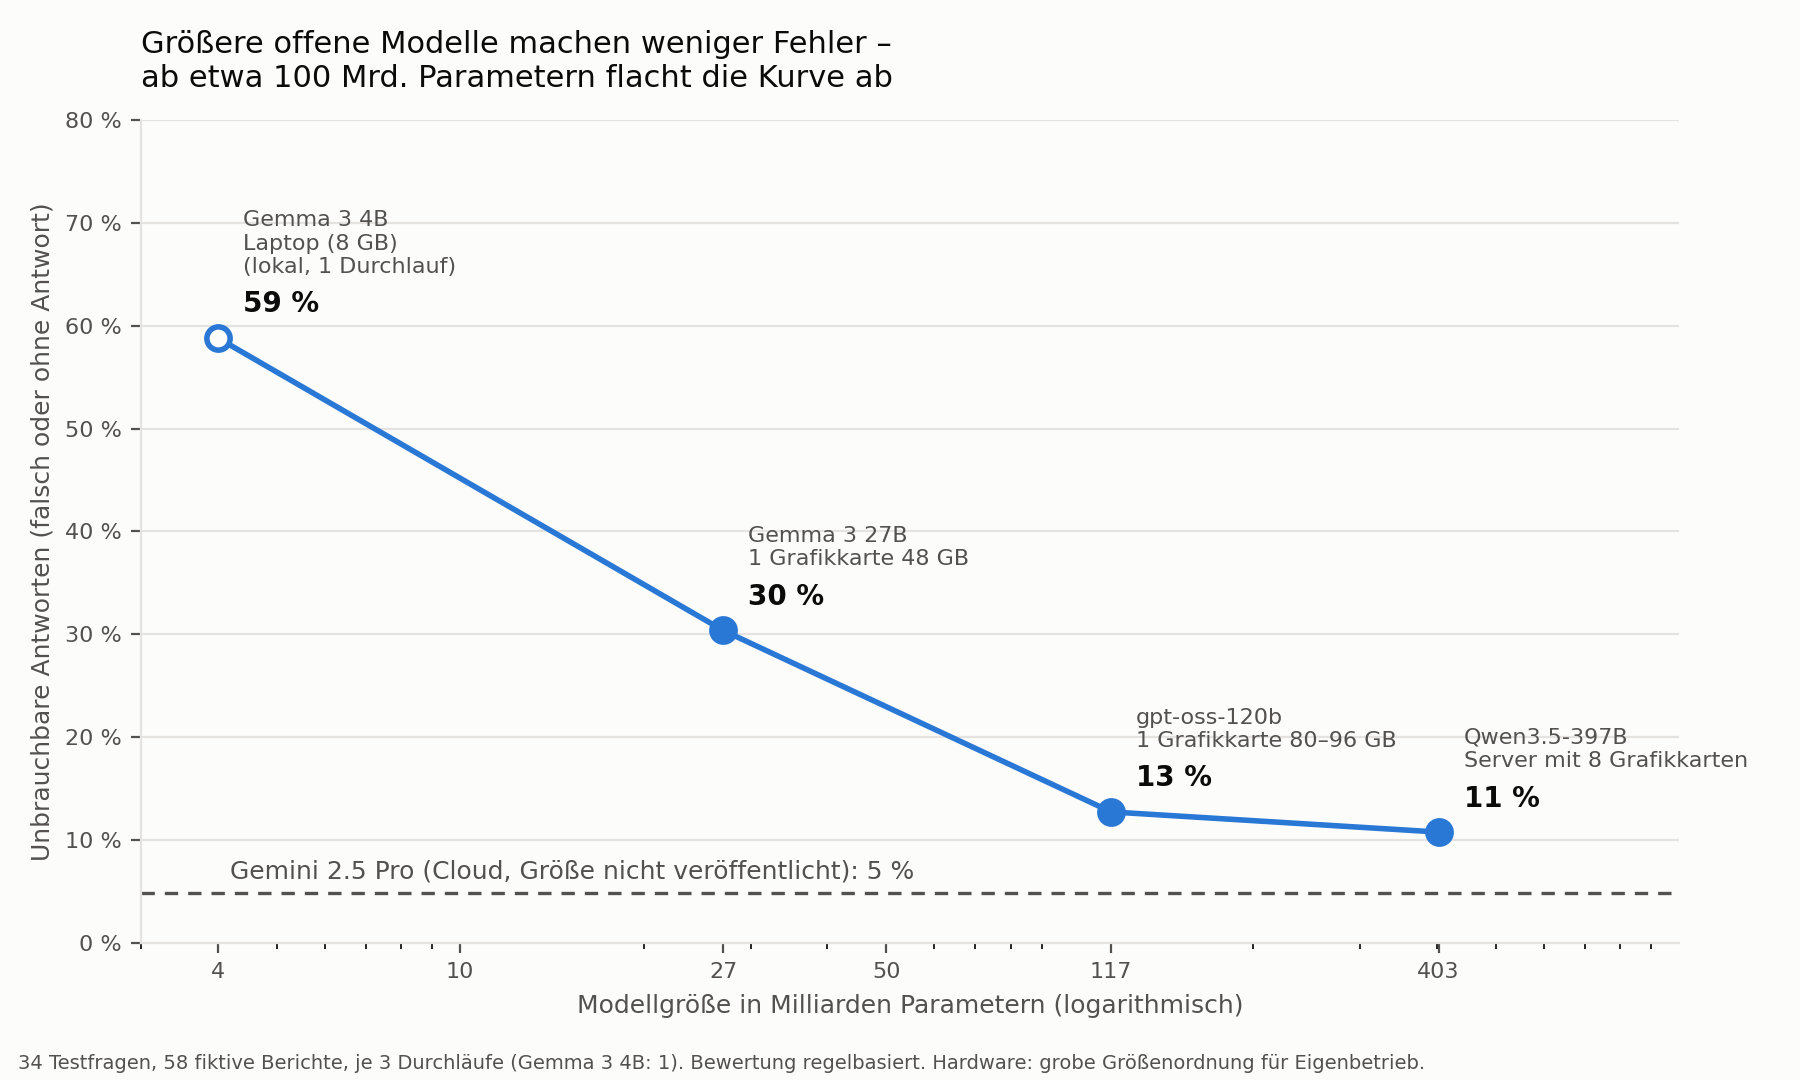
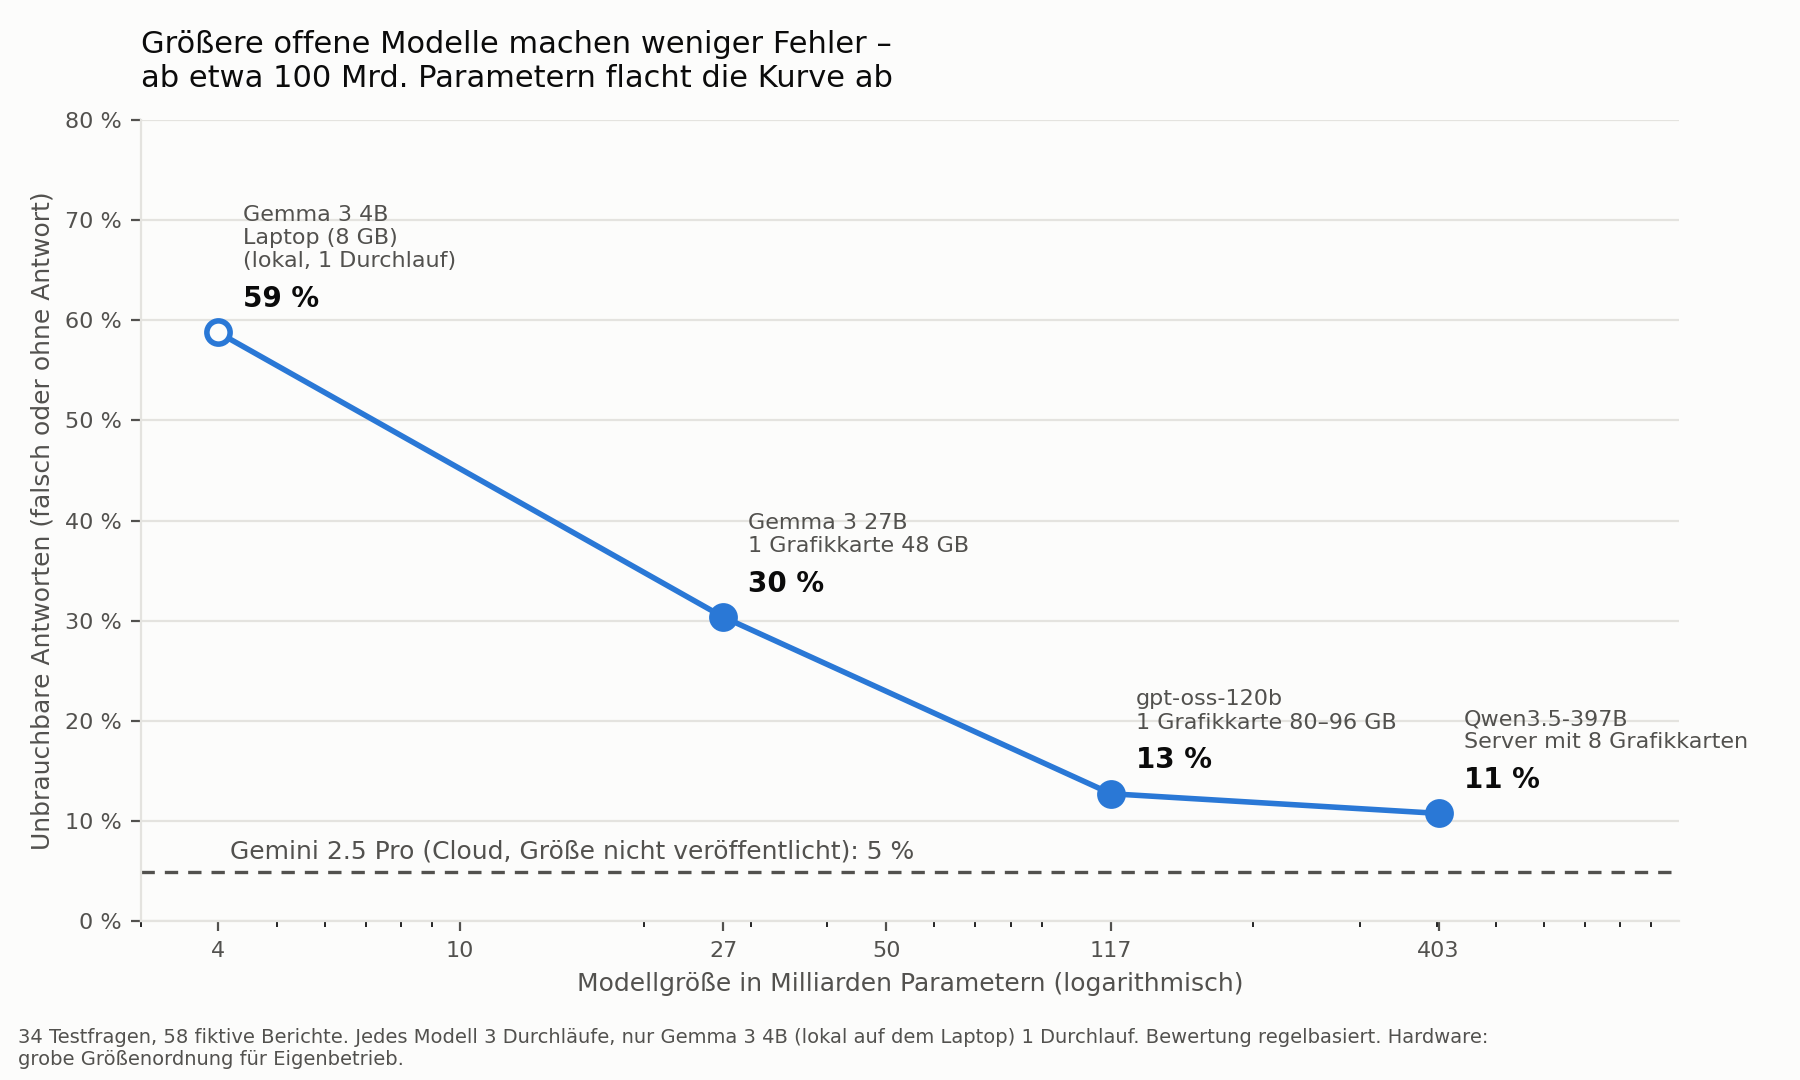
Add first English brief draft and clarify chart footnote

diff --git a/scripts/grafik_modellgroesse.py b/scripts/grafik_modellgroesse.py
@@ -29,11 +29,11 @@ TEXT = {
     "de": {"title": "Größere offene Modelle machen weniger Fehler –\nab etwa 100 Mrd. Parametern flacht die Kurve ab",
            "y": "Unbrauchbare Antworten (falsch oder ohne Antwort)", "x": "Modellgröße in Milliarden Parametern (logarithmisch)",
            "gemini": "Gemini 2.5 Pro (Cloud, Größe nicht veröffentlicht)", "local": "lokal, 1 Durchlauf",
-           "note": "34 Testfragen, 58 fiktive Berichte, je 3 Durchläufe (Gemma 3 4B: 1). Bewertung regelbasiert. Hardware: grobe Größenordnung für Eigenbetrieb."},
+           "note": "34 Testfragen, 58 fiktive Berichte. Jedes Modell 3 Durchläufe, nur Gemma 3 4B (lokal auf dem Laptop) 1 Durchlauf. Bewertung regelbasiert. Hardware: grobe Größenordnung für Eigenbetrieb."},
     "en": {"title": "Larger open models make fewer errors –\nthe curve flattens above roughly 100B parameters",
            "y": "Unusable answers (wrong or no answer)", "x": "Model size in billions of parameters (log scale)",
            "gemini": "Gemini 2.5 Pro (cloud, size not disclosed)", "local": "local, 1 run",
-           "note": "34 test questions, 58 fictional reports, 3 runs each (Gemma 3 4B: 1). Rule-based scoring. Hardware: rough order of magnitude for self-hosting."},
+           "note": "34 test questions, 58 fictional reports. Every model 3 runs, only Gemma 3 4B (local on the laptop) 1 run. Rule-based scoring. Hardware: rough order of magnitude for self-hosting."},
 }
 INK, INK2, SERIES, GRID, SURFACE = "#0b0b0b", "#52514e", "#2a78d6", "#e4e3df", "#fcfcfb"
 
@@ -80,8 +80,9 @@ for lang, t in TEXT.items():
     for side in ("left", "bottom"):
         ax.spines[side].set_color(GRID)
     ax.tick_params(colors=INK2, labelsize=8)
-    fig.text(0.01, 0.01, t["note"], color=INK2, fontsize=7)
-    fig.tight_layout(rect=(0, 0.03, 1, 1))
+    import textwrap
+    fig.text(0.01, 0.01, textwrap.fill(t["note"], 150), color=INK2, fontsize=7, va="bottom")
+    fig.tight_layout(rect=(0, 0.05, 1, 1))
     path = out / f"modellgroesse_fehler_{lang}.png"
     fig.savefig(path, facecolor=SURFACE)
     print(path)

diff --git a/notes/policy_brief_draft_en.md b/notes/policy_brief_draft_en.md
@@ -1,0 +1,68 @@
+# Making Our After-Action Reports Usable: An AI Assistant on Our Own Network
+
+*First draft written from `policy_brief_stichpunkte.md` (15 Nov 2026) as a starting point for the author's own text. Not for submission as is.*
+
+---
+
+## Summary
+
+After-action reports hold our unit's experience, yet the newest and most relevant lessons are hard to find when they are needed. Over the past six weeks I built and tested a working prototype of an AI assistant that answers plain-language questions across a whole collection of reports. It cites the exact report behind every statement and gives the most recent rule priority over older ones. The approach keeps working as the collection grows, and it runs without any internet connection – provided the AI model is large enough, which requires a dedicated server. In our tests, a model that fits on a single large graphics card came close to a leading commercial cloud service. I ask you to endorse the idea of an AI-supported report database on our own hardware inside our closed network, and to support a pilot with real, unclassified reports.
+
+## Context
+
+**Lessons get lost.** We write after-action reports so that the next unit does not repeat our mistakes. In practice, nobody has time to read every report. Experience from another company, another exercise or last year stays in the archive and goes unused.
+
+**Rules change, and the newest version is easy to miss.** Procedures are adjusted over time, often in a short paragraph of a report about something else. A soldier who finds the older report acts on an outdated procedure. At best this costs time; at worst it creates a safety risk.
+
+**Answers must be trustworthy.** Nobody should act on a summary they cannot check. Any tool that answers questions about our reports has to show exactly where each statement comes from.
+
+**Our collections keep growing.** A useful solution must cope with hundreds or thousands of reports and new ones every week, without creating extra work for the people who write them.
+
+**Our reports cannot leave our network.** Commercial AI services run in the cloud. That rules them out for sensitive material. A solution has to run on our own hardware, inside our own network.
+
+## Approach
+
+I built a simple browser-based chat that answers questions about a folder of reports, and improved it over about twenty test rounds in October and November 2026. To avoid any security concern, I tested it only with 58 fictional, unclassified reports written for this purpose. Ten of them are long reports from a fictional training and exercise environment – vehicle service, rations, a winter bivouac, a visitors' day and range safety.
+
+The reports contained deliberate traps: rules that change without saying so, a new rule mentioned only in passing on page three, similar wording in unrelated situations, conflicting experiences, and questions the reports simply cannot answer. Thirty-four test questions were asked three times each and graded against criteria set in advance. I compared a leading commercial cloud model with freely available models of different sizes, including a fully offline run on a laptop.
+
+## Findings
+
+**Every answer is traceable.** Each statement comes with a word-for-word quote and a footnote naming the report's title and date. The program checks every quote against the original report. After one safeguard was added, no invented sources occurred.
+
+**The newest rule wins – most of the time.** With the leading cloud model, 95 percent of answers were free of critical errors. In about five percent, an older rule still appeared as valid. For these cases the program adds a warning – "possibly outdated, newer report dated …" – which catches part of them.
+
+**The approach scales.** New reports placed in the folder are picked up automatically and broken down once into short "index cards", at a cost of two to nine US cents per report. After that, a question costs about three cents and takes about twenty seconds, no matter how large the collection is. In a test, ten reports added later were used immediately, including rule changes buried deep inside long reports.
+
+**Running offline works.** A complete test run with the network disconnected showed zero connections to the outside. However, a small model running on a standard laptop gave unusable answers 59 percent of the time.
+
+**Model size decides quality – but the benefit levels off.** The share of unusable answers fell from 30 percent with a mid-sized model to 13 percent with a model that fits on one large graphics card, and only to 11 percent with a model that needs a server with eight such cards. The leading cloud model stood at five percent (see figure).
+
+![Unusable answers by model size](abbildungen/modellgroesse_fehler_en.png)
+
+**Answers stay on the question.** The assistant answers for the situation that was asked – garrison or exercise, seminar or bivouac – keeps answers short, and says openly when the reports contain nothing on a question.
+
+**This evidence has limits.** The reports were written for the test and are shorter and tidier than real ones. Grading was done by AI against fixed criteria, with spot checks by me. The freely available models were tested through an external provider, not on our own server. Several users at once and access rights were not tested. Hardware prices are rough ranges only. Because the assistant's instructions were refined on the cloud model, the gap between it and the freely available models is probably smaller than measured.
+
+## Implications
+
+**This is feasible today.** The core functions work and can be measured; this is not a technology of the future.
+
+**The hardware is a manageable investment.** A model in the class that performed well runs on one graphics card with 80 to 96 gigabytes of memory, roughly 15,000 to 25,000 US dollars for the card, plus server, operation and approval. Moving to a far larger model on an eight-card server – roughly 285,000 to 530,000 dollars – adds little in quality.
+
+**We must expect a residual error rate.** With such a model, roughly one answer in ten may contain an error, most often an outdated rule. Footnotes and warnings let users check every statement. The assistant points users to the right reports; it does not replace reading them.
+
+**How we file reports matters.** A fixed header with title and date makes the timeline reliable. Scanned documents need extra effort.
+
+**Key questions lie outside the unit.** Security approval, access rights within the network and model licences have to be settled by the responsible offices.
+
+## Recommendations
+
+1. **Endorse the idea** of an AI-supported database for our after-action reports, running on our own hardware inside our closed network, and support it at the next level.
+2. **Approve a pilot** with real, unclassified reports from one area, using a freely available model of the class tested here on a single server. The pilot should measure the same points as this study.
+3. **Introduce a uniform filing format** for new reports: a fixed header with title and date, the author at the end, and the context (unit, situation, type of training). Avoid scanned PDFs.
+4. **Make sources and warnings mandatory** in any system we adopt, and brief users to follow the footnotes.
+5. **Ask the responsible offices to clarify** security approval for new hardware and software in the closed network, the computing capacity required, access rights (who may see which reports), and the licence terms of the chosen model.
+6. **Plan the next steps with partners.** Multi-user operation with log-in and access rights is the next technical step. Universität der Bundeswehr München could contribute through computer-science theses or a hackathon.
+
+*A detailed technical report, all test data and the program are available at https://github.com/Julien0049/AI-database.*

diff --git a/notes/policy_brief_stichpunkte.md b/notes/policy_brief_stichpunkte.md
@@ -1,6 +1,6 @@
 # Policy Brief – bullet points for writing (English)
 
-*Status 15 Nov 2026. Structure follows the course guidance (`policy_brief_vorgaben_kurs.md`): Summary – Context – Project/Approach – Findings – Implications – Recommendations; one problem per paragraph; the context only raises problems that are answered later. The author writes the brief in English from these bullets; a German version is translated at the end. Figures are measured unless marked as estimate. Sources of every figure: `policy_brief_notes.md`, `results/`. Earlier draft of 5 Nov removed on 15 Nov (in git history, commit 147bfd5).*
+*Status 15 Nov 2026. Structure follows the course guidance (`policy_brief_vorgaben_kurs.md`): Summary – Context – Project/Approach – Findings – Implications – Recommendations; one problem per paragraph; the context only raises problems that are answered later. The author writes the brief in English from these bullets; a German version is translated at the end. Figures are measured unless marked as estimate. Sources of every figure: `policy_brief_notes.md`, `results/`. First full draft from these bullets: `policy_brief_draft_en.md` (15 Nov); the earlier draft of 5 Nov is in git history (commit 147bfd5).*
 
 ## Audience (for the author, not part of the brief)
 
